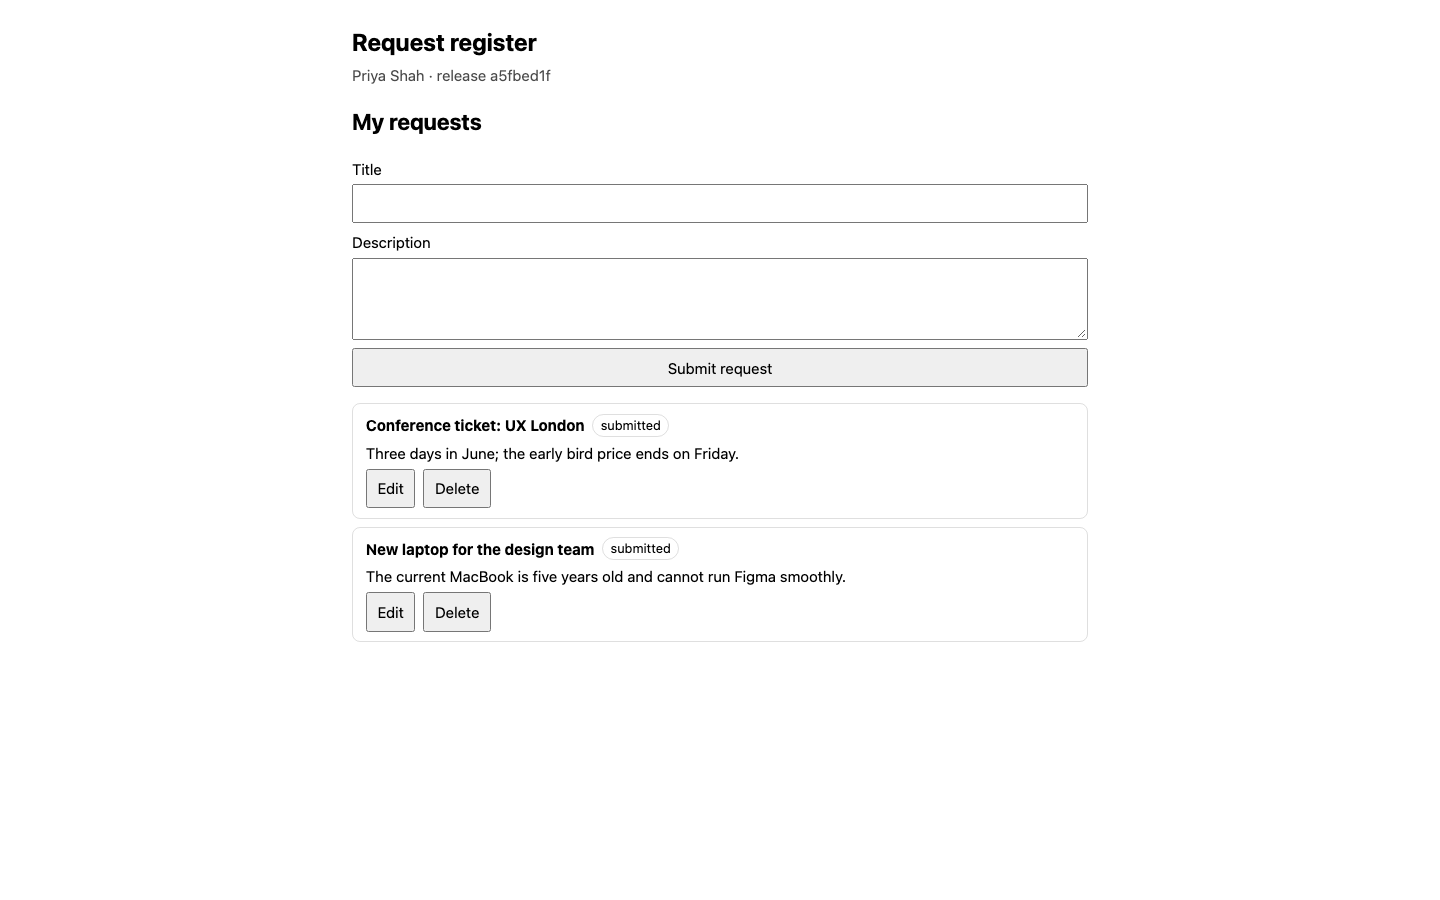
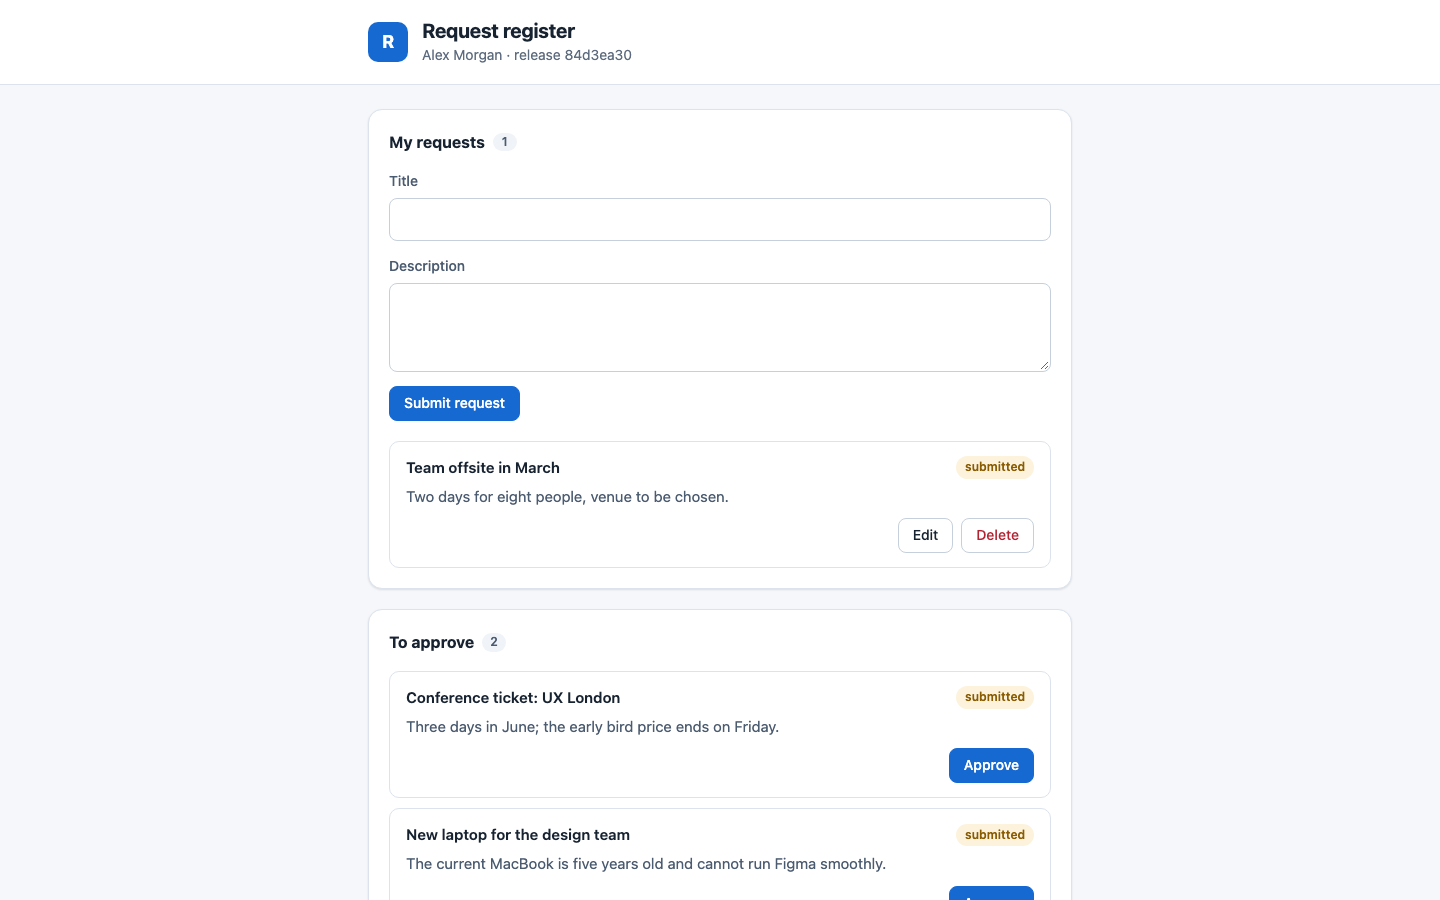
docs(microapps): show the restyled example app in the guide

diff --git a/docs/development/microapps-local.md b/docs/development/microapps-local.md
@@ -109,22 +109,22 @@ complete the OAuth login in a headless Chromium with the local password.
 ## Manual check
 
 1. `doctor`, `up`, `seed`. Sign in to the panel as `alice`, filter the
-   documents by the micro-application kind: *Rejestr wniosków* and
-   *Rezerwacje sprzętu* show
+   documents by the micro-application kind: *Request register* and
+   *Equipment booking* show
    *Enabled*, *Sleeping: no resources* (or *Ready* after use), active release,
    data size once measured. There is no upload or create form.
-2. Open *Rejestr wniosków* as `bob` (Open, or the app URL). Submit a request,
+2. Open *Request register* as `bob` (Open, or the app URL). Submit a request,
    edit it, delete another one.
-3. As `carol` (role *Recenzent* plus single permissions to file her own
-   requests) open the same app: the request is in *Do zatwierdzenia*; approve
+3. As `carol` (role *Reviewer* plus single permissions to file her own
+   requests) open the same app: the request is in *To approve*; approve
    it. As `bob` the request shows `approved` and can no longer be edited.
 4. As `dave` the app opens but shows no permissions; the API answers 403.
-5. On the app's asset page, tab *Access*: `bob` holds the role *Pracownik*.
+5. On the app's asset page, tab *Access*: `bob` holds the role *Employee*.
    Take it away and give single permissions without `requests.read`; his open
    tab gets 403 on the next action. Give the role back.
-6. *Rezerwacje sprzętu*: as `alice` add equipment (quantity 2); as `bob`
+6. *Equipment booking*: as `alice` add equipment (quantity 2); as `bob`
    reserve and cancel; availability changes in both tables together.
-7. Suspend *Rejestr wniosków* in the panel (or `ics_microapp_control`): the
+7. Suspend *Request register* in the panel (or `ics_microapp_control`): the
    app answers 503 `app_suspended`. `scripts/microapps-local.sh compose
    restart broker backend arq-worker`: it stays suspended. Enable it: state
    *Enabled* + *Sleeping* until the next request.

diff --git a/docs/guide/micro-applications.md b/docs/guide/micro-applications.md
@@ -18,7 +18,7 @@ A micro-application is a small app with its own data that lives in ICS like any 
 
 Open the app's page from the document list, a project or a link, and click **Open**. The app opens in a new tab.
 
-![Request register opened by Priya Shah: her requests with Edit and Delete](images/micro-app-running.png)
+![Request register opened by Alex Morgan, a reviewer: their own request and the queue to approve](images/micro-app-running.png)
 
 What you see inside depends on the roles you have in the app. Without any role you can open it, but the app shows that you have no permissions yet; ask the person who manages the app's access (see [Give people roles](#give-people-roles)).
 
